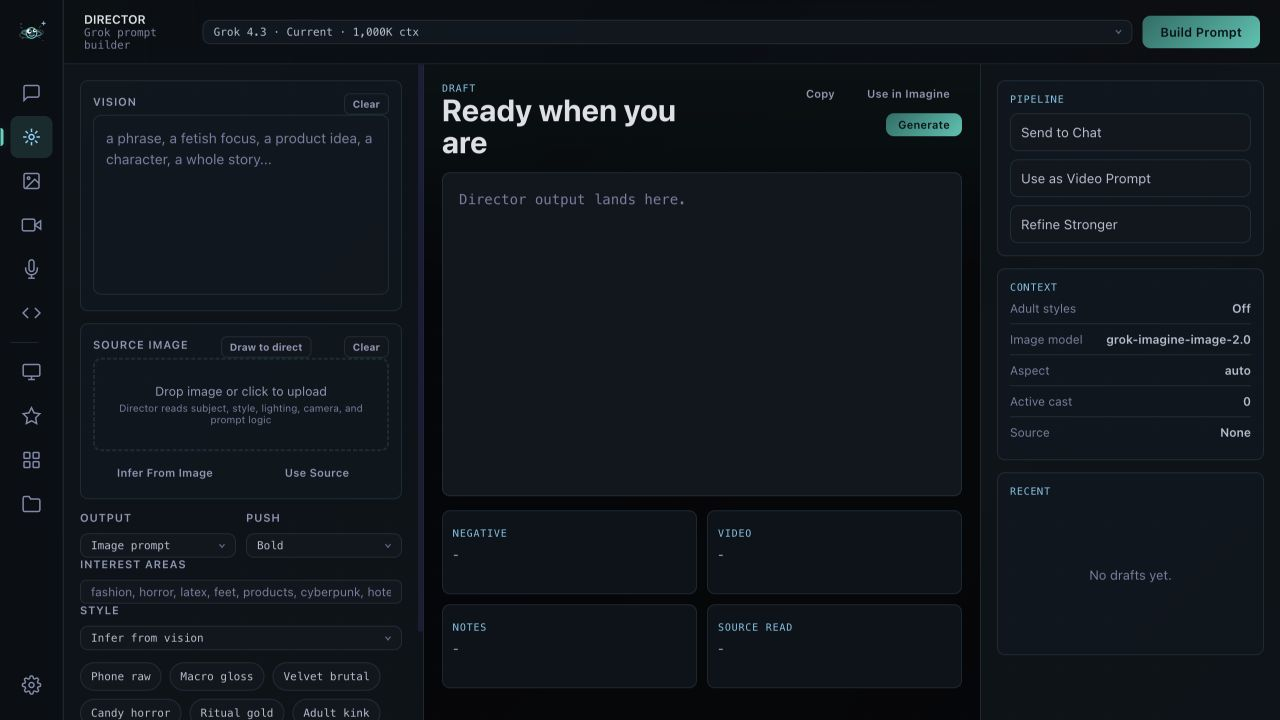
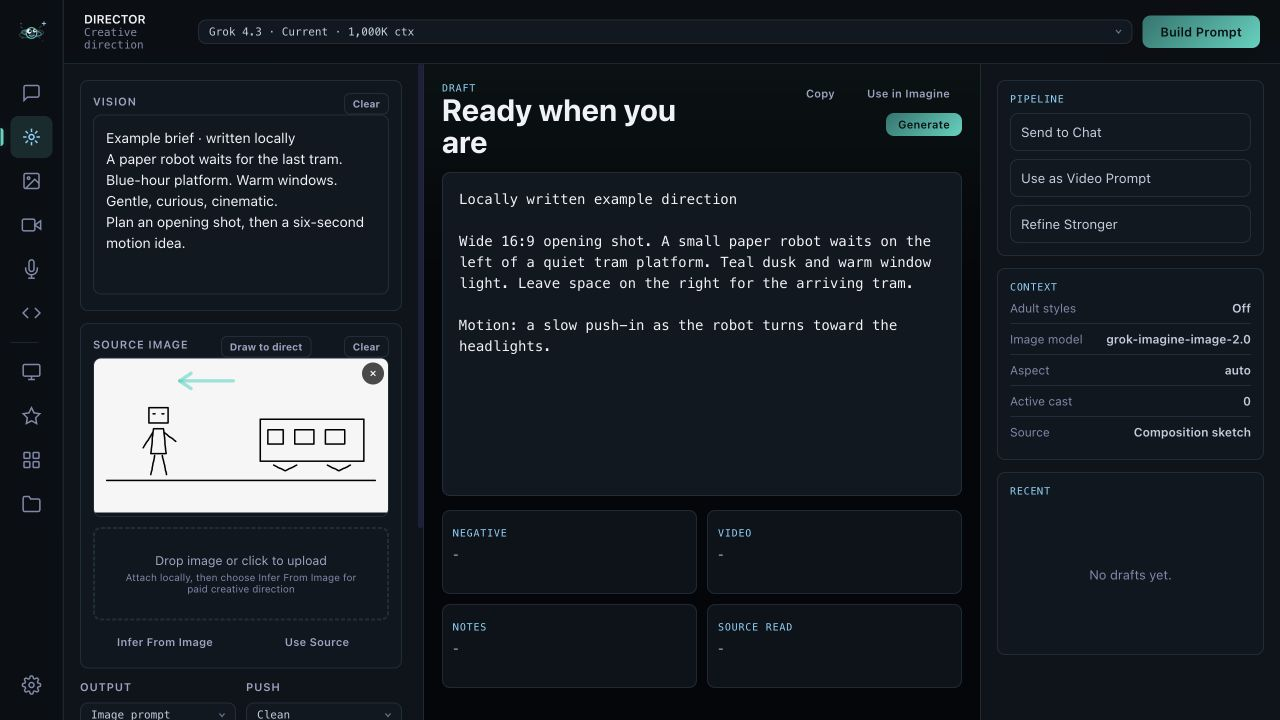
Refresh current screenshots and contributor attribution

diff --git a/scripts/package_release.py b/scripts/package_release.py
@@ -8,7 +8,7 @@ import re
 import zipfile
 
 ROOT = Path(__file__).resolve().parents[1]
-VERSION = '0.1.1'
+VERSION = '0.1.2'
 FILES = [
     '.env.example', '.gitignore', 'LICENSE', 'README.md', 'RELEASE_NOTES.md',
     'THIRD_PARTY_NOTICES.md', 'IMPORT_LOCAL_DATA.md', 'requirements.txt',
@@ -20,7 +20,7 @@ FILES = [
     'tests/test_local_boundary.py', 'tests/test_media.py', 'tests/test_sketch.cjs', 'tests/test_media_bridge.cjs',
     'tests/test_launcher.py', 'tests/test_artifact_preview.cjs', 'tests/test_direction_pitches.cjs',
     'scripts/package_release.py',
-    'assets/dork-draw.jpg', 'assets/dork-video.jpg', 'assets/dork-director.jpg',
+    'assets/dork-draw.jpg', 'assets/dork-video.jpg', 'assets/dork-director.jpg', 'assets/dork-directions.jpg',
     *[f'LICENSES/{name}.txt' for name in ['Flask','Werkzeug','Jinja2','MarkupSafe','itsdangerous','click','blinker','python-dotenv','Pillow']],
 ]
 CHECKS = {

diff --git a/README.md b/README.md
@@ -2,11 +2,17 @@
 
 The free, open-source **Flask edition of Dork Director**, running locally with a browser interface. Its directing workflow turns a brief or source image, your taste, and selected Cast/Looks into structured still/motion direction, variations and shot-list prompts. Chat can drive media actions, and contextual Live Voice can propose directions for your approval.
 
-**Scope of this release:** v0.1.1 updates the older Flask workspace. It does not include the newer native studio's persistent projects/worlds, take lineage, Stage/Compare/Storyboard workspaces, continuity evaluation or portable production bundles. Its video continuation uses a frozen frame plus a short in-session narrative; it does not retain a project-level sequence across restarts.
+**Scope of this release:** v0.1.2 updates the older Flask workspace. It does not include the newer native studio's persistent projects/worlds, take lineage, Stage/Compare/Storyboard workspaces, continuity evaluation or portable production bundles. Its video continuation uses a frozen frame plus a short in-session narrative; it does not retain a project-level sequence across restarts.
 
 **The app is free. AI generation uses your own paid provider account.** The local editor, drawing pad and saved library work without an API key. Grok renders, chat, prompt inference, speech and cloud Collections require an internet connection and are billed by xAI; optional OpenAI tools use your OpenAI account. No account with dork or Flint is required.
 
-![Draw to direct](assets/dork-draw.jpg)
+![Director with a locally written example brief, editable direction and an original drawing source](assets/dork-director.jpg)
+
+![Draw to direct with an original robot-and-tram composition guide](assets/dork-draw.jpg)
+
+![Explicit creative pitch entry before any AI request](assets/dork-directions.jpg)
+
+These are direct screenshots of the current app using empty keys, temporary state and nonpersonal example content. The brief/direction was written locally; no provider-generated result or simulated AI output is pictured.
 
 ## Start on macOS
 
@@ -59,7 +65,7 @@ Optional `ffmpeg` and `ffprobe` must be available on PATH for last-frame extract
 
 ## Verification
 
-Tested on macOS with an Apple M3 Max, Python 3.13 and the pinned dependencies. Thirty-seven Python tests cover local privacy boundaries, mocked provider payloads/costs/job states and launcher behavior. Twenty Node tests cover drawing, media handoff, explicit three-direction pitches and artifact preview isolation. A real local browser walkthrough with empty keys, temporary state and a synthetic provider checked sketch → Director source → three pitches → editable direction, without a media submission. The drawing component passed fifteen browser assertions, and artifact rendering/isolation passed nineteen. Loopback binding and collision fallback were checked with real local sockets; Chrome/Edge invocation is covered by mocked command checks.
+Tested on macOS with an Apple M3 Max and the pinned dependencies in an existing Python 3.9.6 environment. The setup guide targets Python 3.10+; a fresh installation of that environment was not exercised. Thirty-seven Python tests cover local privacy boundaries, mocked provider payloads/costs/job states and launcher behavior. Twenty Node tests cover drawing, media handoff, explicit three-direction pitches and artifact preview isolation. A real local browser walkthrough with empty keys, temporary state and a synthetic provider checked sketch → Director source → three pitches → editable direction, without a media submission. The drawing component passed fifteen browser assertions, and artifact rendering/isolation passed nineteen. Loopback binding and collision fallback were checked with real local sockets; Chrome/Edge invocation is covered by mocked command checks.
 
 **No paid provider render was made for this release.** Render quality, current account-specific access, live voice/Collections behavior and cross-platform launch remain unverified. The M3 Max runs the UI and local media tools; xAI performs the generative inference in the cloud. No local model or GPU benchmark is claimed.
 

diff --git a/RELEASE_NOTES.md b/RELEASE_NOTES.md
@@ -1,3 +1,9 @@
+# v0.1.2 — current screenshots and contributor attribution
+
+Refreshed the screenshots from the current actual app: Director with a locally written example, an original drawing, explicit pitch entry before any AI request, and current video controls. Empty keys and separate temporary state were used; no provider call, simulated AI result or private media/history is shown.
+
+The app-owned MIT copyright now uses **dork contributors**. Required upstream license attributions are retained. Repository owner/account links and older public commits/releases remain visible; this forward update does not anonymize the account or erase historical attribution. App behavior and the v0.1.1 validation remain unchanged. Verification documentation now correctly identifies the existing test runtime as Python 3.9.6; the setup guide targets Python 3.10+, and a fresh setup was not exercised.
+
 # v0.1.1 — explicit creative pitches and desktop launch
 
 This follow-up restores a visible three-direction pitch entry in the existing Flask Director workflow. **Suggest directions** carries the selected source, brief, taste, Cast/Looks and recent scenes; its AI request is explicitly provider-billed. Opening the card, attaching a source or choosing an editable direction starts no render.
